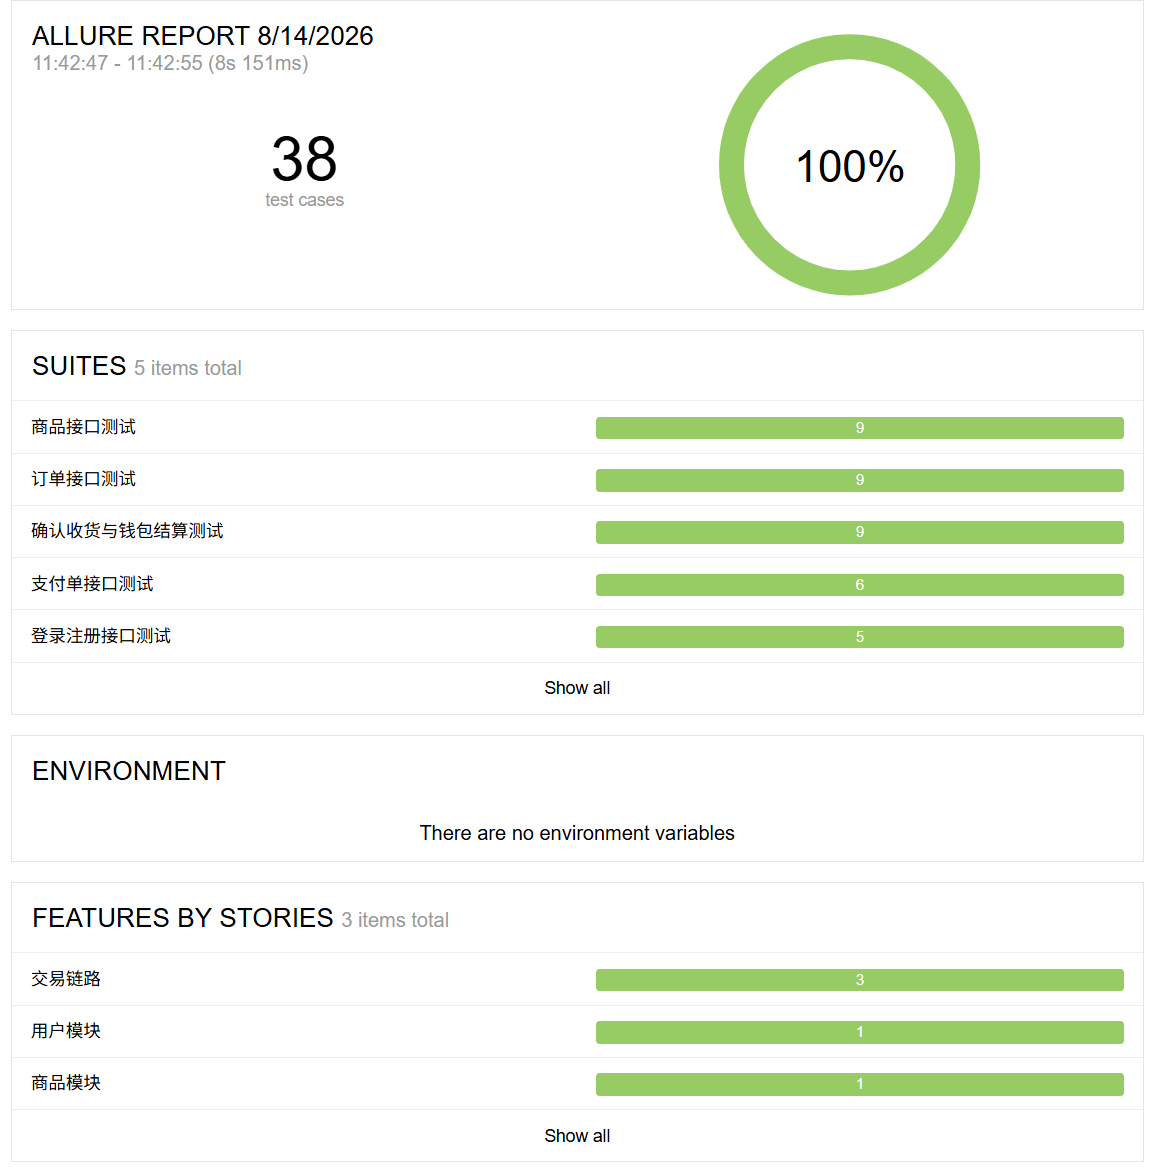
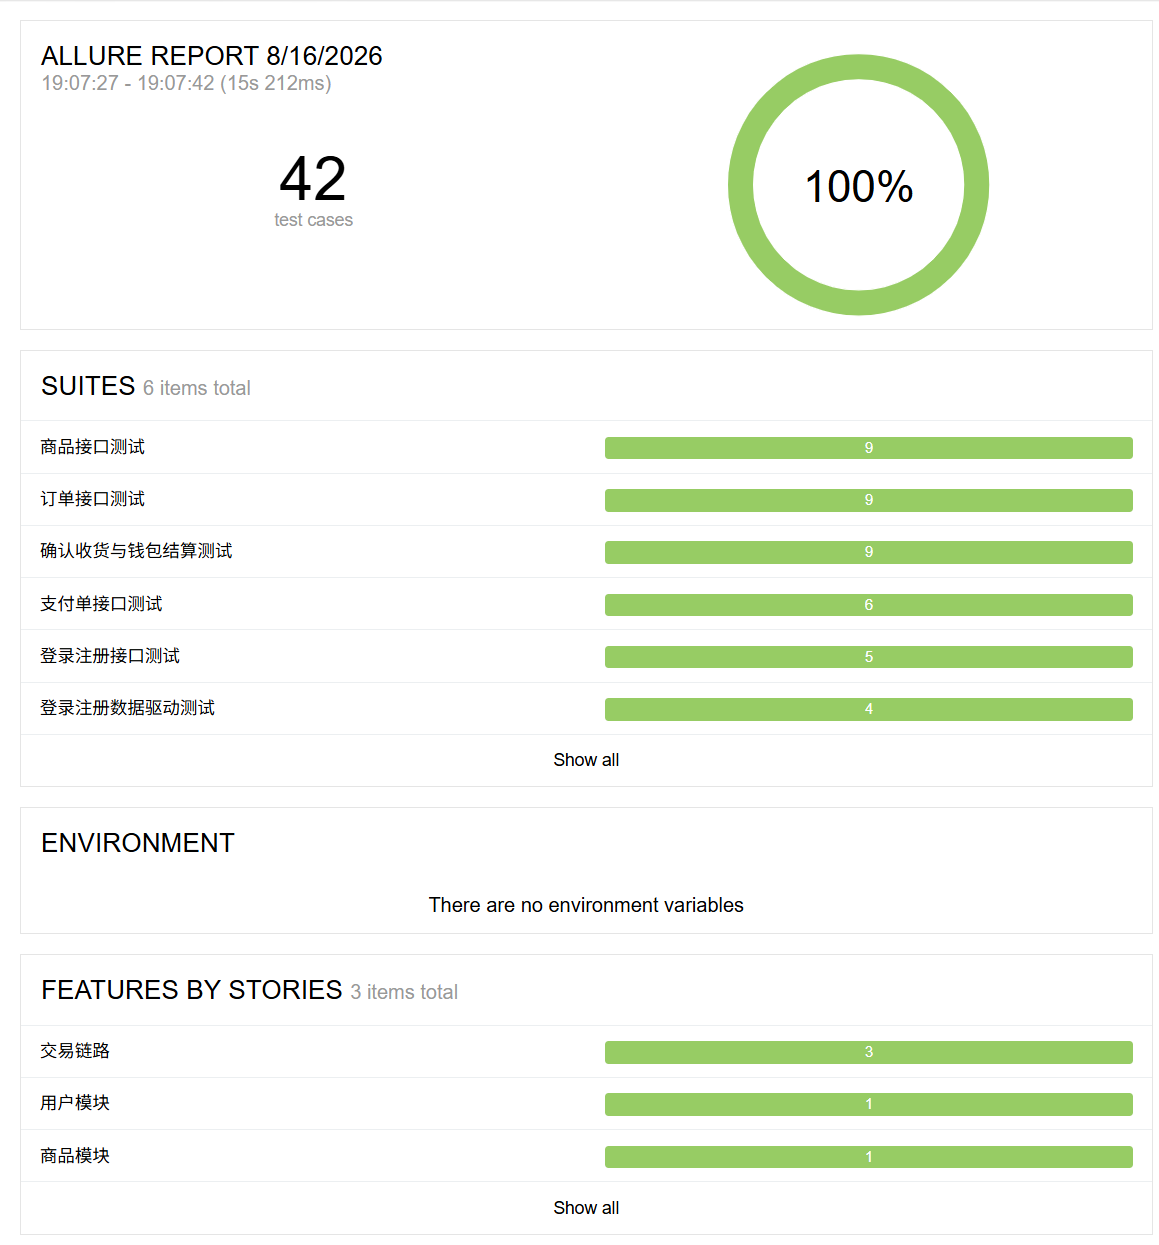
在README中更新最新的allure报告

diff --git a/README.md b/README.md
@@ -23,7 +23,7 @@
 
 ### 2.1 报告总览
 
-报告首页展示测试执行时间、用例总数、通过率以及按测试套件和 Epic 维度统计的分布情况。共 **38 条**用例，通过率 **100%**。
+报告首页展示测试执行时间、用例总数、通过率以及按测试套件和 Epic 维度统计的分布情况。共 **42 条**用例，通过率 **100%**。
 
 <p align="center">
   <img src="allure-picture/overview.png" width="85%" alt="Allure 报告总览"/>
@@ -194,7 +194,22 @@ public static Result<OrderVo> createOrder(String token, Long goodId) {
 
 ---
 
-## 六、覆盖的业务链路
+## 六、用例分布统计
+
+| 模块 | 接口数 | 用例数 | 参数化用例数 |
+|---|---:|---:|---:|
+| **Auth** | 2 | 9 | 6 |
+| **Goods** | 6 | 8 | 2 |
+| **Order** | 6 | 13 | 0 |
+| **Payment** | 2 | 6 | 0 |
+| **Wallet** | 3 | 4 | 2 |
+| **合计** | **19** | **40** | **10** |
+
+> 说明：`WalletAndOrderSettlementTest` 为跨模块链路测试，已按涉及接口拆分到 Order 与 Wallet 模块统计；参数化用例数按 JUnit 实际执行次数计算。
+
+---
+
+## 七、覆盖的业务链路
 
 | 模块 | 测试类 | 核心场景 |
 |------|--------|----------|
@@ -204,13 +219,13 @@ public static Result<OrderVo> createOrder(String token, Long goodId) {
 | 交易链路-支付单 | `PaymentApiTest` | 创建支付单、重复创建、非买家创建限制、非 CREATED 状态限制、取消订单后支付单关闭 |
 | 交易链路-确认收货与钱包 | `WalletAndOrderSettlementTest` | 模拟支付后确认收货、卖家余额增加、收入流水生成、未支付确认收货拦截、非参与者拦截、提现成功、余额不足、金额非法 |
 
-总计 **38 条** 用例，覆盖正向、反向、权限、状态机、参数校验等多类场景。
+总计 **42 条** 用例，覆盖正向、反向、权限、状态机、参数校验等多类场景。
 
 ---
 
-## 七、环境准备
+## 八、环境准备
 
-### 7.1 启动后端服务
+### 8.1 启动后端服务
 
 本项目是接口测试工程，需要后端 CampusMart 服务已启动：  
 
@@ -219,14 +234,14 @@ public static Result<OrderVo> createOrder(String token, Long goodId) {
 需要配置好后端项目并启动
 
 
-### 7.2 准备本地配置
+### 8.2 准备本地配置
 
 在 `src/test/resources/` 下创建 `application-local.properties`：  
 1. 需要配置本地数据库连接，并通过后端的sql建表语句创建好数据库  
 2. 修改项目连接的端口为后端项目在本地开放的端口（默认8080）
 ---
 
-## 八、如何运行
+## 九、如何运行
 
 1. 启动后端 CampusMart2.0 服务  
 2. 终端输入 mvn clean test 运行测试项目  
